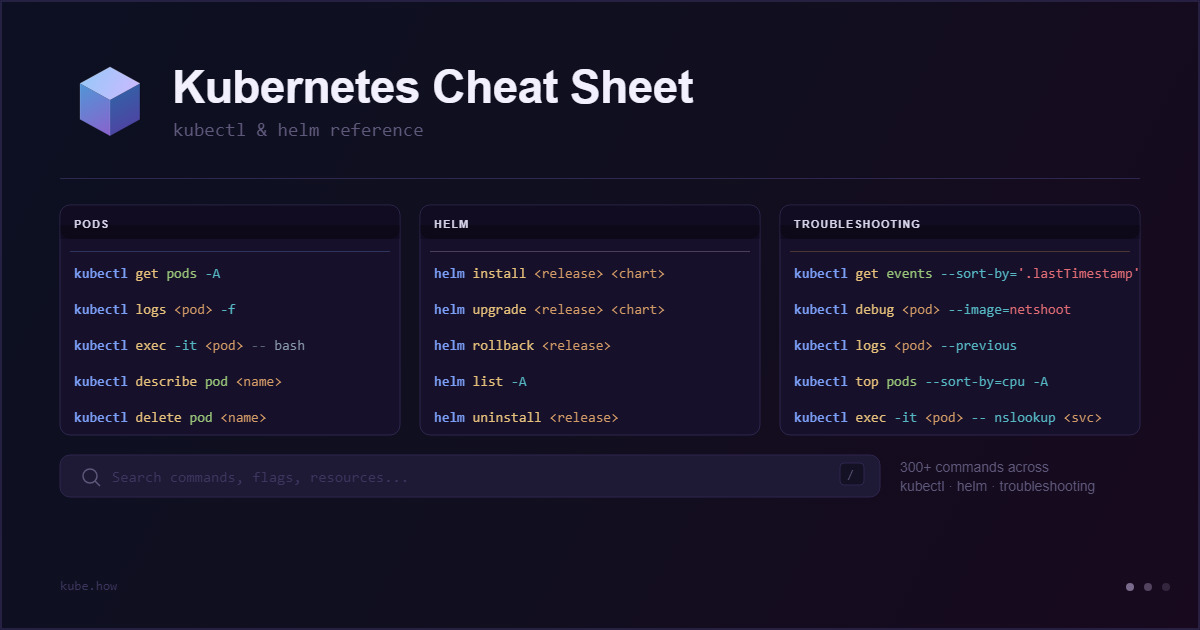
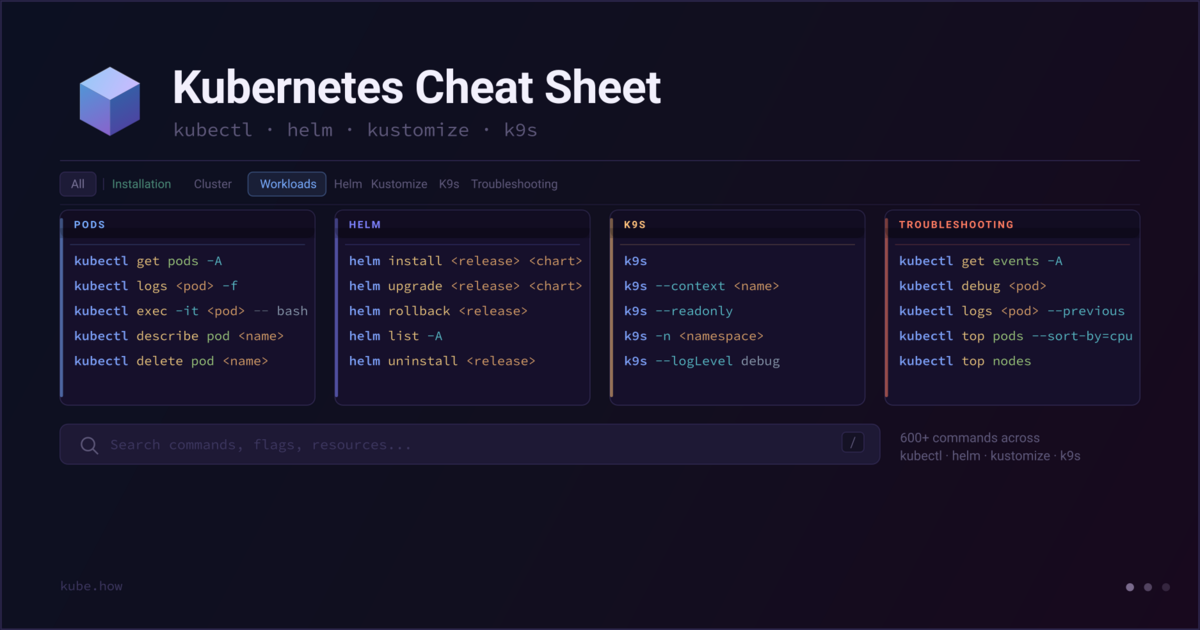
docs: refresh README and update OG image with 4-card layout

diff --git a/js/data.js b/js/data.js
@@ -96,8 +96,6 @@ const SECTIONS = [
         cmds: [
           { cmd: 'kubeadm token list',                                                      desc: 'List all bootstrap tokens' },
           { cmd: 'kubeadm config view',                                                     desc: 'View the kubeadm configuration stored in the cluster' },
-          { cmd: 'kubectl get nodes',                                                        desc: 'List all nodes and their status' },
-          { cmd: 'kubectl get pods -n kube-system',                                         desc: 'List control plane pods' },
         ]
       },
     ]
@@ -346,7 +344,6 @@ const SECTIONS = [
           { cmd: 'minikube profile list',                                                      desc: 'List all minikube profiles' },
           { cmd: 'minikube profile <name>',                                                   desc: 'Switch to a specific profile' },
           { cmd: 'minikube service list',                                                     desc: 'List services and their URLs' },
-          { cmd: 'minikube addons list',                                                      desc: 'List all addons and their status' },
           { cmd: 'minikube config view',                                                     desc: 'View all config values' },
           { cmd: 'minikube config set driver <driver>',                                      desc: 'Set the default driver' },
           { cmd: 'minikube config set memory <mb>',                                          desc: 'Set default memory in MB' },
@@ -471,6 +468,48 @@ const SECTIONS = [
     ]
   },
 
+  // ── CUSTOM RESOURCES ──────────────────────────────────────
+  {
+    id: 'crd', title: 'Custom Resources', icon: ICONS.crd, sub: 'Cluster',
+    groups: [
+      {
+        title: 'Manage',
+        desc: 'Install, update, and remove Custom Resource Definitions that extend the Kubernetes API with new resource types.',
+        cmds: [
+          { cmd: 'kubectl apply -f crd.yaml',                                        desc: 'Install or update a CRD' },
+          { cmd: 'kubectl delete crd <name>',                                        desc: 'Remove a CRD and all its custom resources' },
+          { cmd: 'kubectl edit crd <name>',                                          desc: 'Edit CRD in $EDITOR' },
+        ]
+      },
+      {
+        title: 'List & Inspect',
+        desc: 'List installed CRDs and inspect their versions, schema, and acceptance status.',
+        cmds: [
+          { cmd: 'kubectl describe crd <name>',                                      desc: 'Full CRD details, versions, schema, and conditions' },
+          { cmd: 'kubectl get crd',                                                  desc: 'List all Custom Resource Definitions' },
+          { cmd: 'kubectl get crd <name> -o jsonpath=\'{.spec.versions[*].name}\'', desc: 'List all API versions defined by a CRD' },
+          { cmd: 'kubectl get crd <name> -o yaml',                                  desc: 'Get full CRD manifest as YAML' },
+          { cmd: 'kubectl get <custom-resource> -A',                                desc: 'List all instances of a custom resource' },
+          { cmd: 'kubectl get <custom-resource> <name> -n <namespace> -o yaml',     desc: 'Get a custom resource instance as YAML' },
+        ]
+      },
+      {
+        title: 'API Discovery',
+        desc: 'Explore all available API resources and versions, and inspect resource field schemas directly from the API server.',
+        cmds: [
+          { cmd: 'kubectl api-resources',                                            desc: 'List all available API resources' },
+          { cmd: 'kubectl api-resources --api-group=<group>',                       desc: 'Resources in a specific API group' },
+          { cmd: 'kubectl api-resources --namespaced=false',                        desc: 'Cluster-scoped resources only' },
+          { cmd: 'kubectl api-resources --namespaced=true',                         desc: 'Namespace-scoped resources only' },
+          { cmd: 'kubectl api-versions',                                             desc: 'List all API versions in the cluster' },
+          { cmd: 'kubectl explain <resource>',                                       desc: 'Describe a resource and its top-level fields' },
+          { cmd: 'kubectl explain <resource> --recursive',                           desc: 'Show full nested field tree' },
+          { cmd: 'kubectl explain <resource>.spec.<field>',                          desc: 'Explain a specific nested field' },
+        ]
+      },
+    ]
+  },
+
   // ── CONTEXTS ──────────────────────────────────────────────
   {
     id: 'context', title: 'Contexts', icon: ICONS.context, sub: 'Cluster',
@@ -511,48 +550,6 @@ const SECTIONS = [
           { cmd: 'kubectl config view --flatten',                                  desc: 'Flatten kubeconfig (useful for sharing)' },
           { cmd: 'kubectl config view --minify',                                   desc: 'View current context config only' },
           { cmd: 'kubectl config view',                                            desc: 'View full kubeconfig' },
-        ]
-      },
-    ]
-  },
-
-  // ── CUSTOM RESOURCES ──────────────────────────────────────
-  {
-    id: 'crd', title: 'Custom Resources', icon: ICONS.crd, sub: 'Cluster',
-    groups: [
-      {
-        title: 'Manage',
-        desc: 'Install, update, and remove Custom Resource Definitions that extend the Kubernetes API with new resource types.',
-        cmds: [
-          { cmd: 'kubectl apply -f crd.yaml',                                        desc: 'Install or update a CRD' },
-          { cmd: 'kubectl delete crd <name>',                                        desc: 'Remove a CRD and all its custom resources' },
-          { cmd: 'kubectl edit crd <name>',                                          desc: 'Edit CRD in $EDITOR' },
-        ]
-      },
-      {
-        title: 'List & Inspect',
-        desc: 'List installed CRDs and inspect their versions, schema, and acceptance status.',
-        cmds: [
-          { cmd: 'kubectl describe crd <name>',                                      desc: 'Full CRD details, versions, schema, and conditions' },
-          { cmd: 'kubectl get crd',                                                  desc: 'List all Custom Resource Definitions' },
-          { cmd: 'kubectl get crd <name> -o jsonpath=\'{.spec.versions[*].name}\'', desc: 'List all API versions defined by a CRD' },
-          { cmd: 'kubectl get crd <name> -o yaml',                                  desc: 'Get full CRD manifest as YAML' },
-          { cmd: 'kubectl get <custom-resource> -A',                                desc: 'List all instances of a custom resource' },
-          { cmd: 'kubectl get <custom-resource> <name> -n <namespace> -o yaml',     desc: 'Get a custom resource instance as YAML' },
-        ]
-      },
-      {
-        title: 'API Discovery',
-        desc: 'Explore all available API resources and versions, and inspect resource field schemas directly from the API server.',
-        cmds: [
-          { cmd: 'kubectl api-resources',                                            desc: 'List all available API resources' },
-          { cmd: 'kubectl api-resources --api-group=<group>',                       desc: 'Resources in a specific API group' },
-          { cmd: 'kubectl api-resources --namespaced=false',                        desc: 'Cluster-scoped resources only' },
-          { cmd: 'kubectl api-resources --namespaced=true',                         desc: 'Namespace-scoped resources only' },
-          { cmd: 'kubectl api-versions',                                             desc: 'List all API versions in the cluster' },
-          { cmd: 'kubectl explain <resource>',                                       desc: 'Describe a resource and its top-level fields' },
-          { cmd: 'kubectl explain <resource> --recursive',                           desc: 'Show full nested field tree' },
-          { cmd: 'kubectl explain <resource>.spec.<field>',                          desc: 'Explain a specific nested field' },
         ]
       },
     ]
@@ -912,8 +909,8 @@ const SECTIONS = [
           { cmd: 'kubectl get jobs -n <namespace>',                                desc: 'Jobs in a specific namespace' },
           { cmd: 'kubectl get pods --selector=job-name=<name>',                   desc: 'Find all pods created by a job' },
           { cmd: 'kubectl logs -l job-name=<name>',                               desc: 'Logs from all pods of a job by label' },
-          { cmd: 'kubectl wait --for=condition=complete job/<name> --timeout=120s', desc: 'Wait until job completes successfully' },
-          { cmd: 'kubectl wait --for=condition=failed job/<name>',                desc: 'Wait until job fails (useful in CI to catch errors)' },
+          { cmd: 'kubectl wait --for=condition=Complete job/<name> --timeout=120s', desc: 'Wait until job completes successfully' },
+          { cmd: 'kubectl wait --for=condition=Failed job/<name>',                desc: 'Wait until job fails (useful in CI to catch errors)' },
         ]
       },
       {
@@ -1182,7 +1179,7 @@ const SECTIONS = [
         cmds: [
           { cmd: 'kubectl describe namespace <name>',                              desc: 'Namespace details and resource quotas' },
           { cmd: 'kubectl describe resourcequota -n <namespace>',                  desc: 'Current quota usage vs limits' },
-          { cmd: 'kubectl get all --all-namespaces',                               desc: 'All resources across all namespaces' },
+          { cmd: 'kubectl get all -A',                                              desc: 'All resources across all namespaces' },
           { cmd: 'kubectl get all -n <namespace>',                                 desc: 'All resources in a namespace' },
           { cmd: 'kubectl get limitrange -n <namespace>',                          desc: 'Default CPU/memory limits for namespace' },
           { cmd: 'kubectl get namespace <name> -o yaml',                           desc: 'Get namespace manifest as YAML' },
@@ -1296,7 +1293,6 @@ const SECTIONS = [
           { cmd: 'helm show chart <chart>',                                        desc: 'Display chart metadata (Chart.yaml)' },
           { cmd: 'helm show readme <chart>',                                       desc: 'Display chart README' },
           { cmd: 'helm show values <chart>',                                       desc: 'Display chart default values' },
-          { cmd: 'helm version',                                                   desc: 'Show Helm client version' },
         ]
       },
       {
@@ -1778,9 +1774,7 @@ const SECTIONS = [
         desc: 'Print K9s runtime paths and version, or enable debug logging to identify startup and connection issues.',
         cmds: [
           { cmd: 'k9s info',                                                         desc: 'Print config file path, log path, screen dump dir, and plugin dir' },
-          { cmd: 'k9s version',                                                       desc: 'Print K9s version and build info' },
           { cmd: 'k9s --logLevel debug',                                             desc: 'Start K9s with debug logging enabled' },
-          { cmd: 'k9s --readonly',                                                    desc: 'Start in read-only mode, all mutating actions are disabled' },
         ]
       },
       {

diff --git a/index.html b/index.html
@@ -20,6 +20,7 @@
   <meta name="twitter:card" content="summary_large_image">
   <meta name="twitter:title" content="Kubernetes Cheat Sheet | Quick CLI Reference">
   <meta name="twitter:description" content="Searchable Kubernetes CLI reference covering kubectl, Helm, Kustomize, K9s, and troubleshooting. Copy any command in one click.">
+  <meta name="twitter:image" content="https://kube.how/images/og-image.png">
 
   <link rel="icon" type="image/svg+xml" href="favicon.svg">
 
@@ -28,6 +29,18 @@
   <link rel="preload" href="https://fonts.googleapis.com/css2?family=JetBrains+Mono:wght@400;500;600;700&family=Space+Grotesk:wght@400;500;600;700&display=swap" as="style" onload="this.onload=null;this.rel='stylesheet'">
   <noscript><link rel="stylesheet" href="https://fonts.googleapis.com/css2?family=JetBrains+Mono:wght@400;500;600;700&family=Space+Grotesk:wght@400;500;600;700&display=swap"></noscript>
   <link rel="stylesheet" href="css/styles.css">
+
+  <script type="application/ld+json">
+  {
+    "@context": "https://schema.org",
+    "@type": "WebApplication",
+    "name": "Kubernetes Cheat Sheet",
+    "description": "Searchable Kubernetes CLI reference covering kubectl, Helm, Kustomize, K9s, and troubleshooting. Copy any command in one click.",
+    "url": "https://kube.how",
+    "applicationCategory": "DeveloperApplication",
+    "offers": { "@type": "Offer", "price": "0" }
+  }
+  </script>
 </head>
 <body>
 

diff --git a/js/app.js b/js/app.js
@@ -95,7 +95,7 @@ function applyMark(el, q) {
 
 // ── Navigation data ───────────────────────────────────────────
 const CATEGORIES = {
-  cluster:      ['cluster-health','node','context','crd'],
+  cluster:      ['cluster-health','node','crd','context'],
   workloads:    ['pod','deployment','statefulset','daemonset','service','config','job','volume','network','rbac','namespace'],
   helm:         ['helm-releases', 'helm-charts'],
   kustomize:    ['kustomize-manage', 'kustomize-edit'],
@@ -330,8 +330,14 @@ function applySearch(query) {
 
   const countEl = document.getElementById('searchCount');
   if (countEl) {
-    countEl.textContent = '';
-    countEl.classList.remove('active');
+    if (q) {
+      const n = [...document.querySelectorAll('.cmd-item')].filter(el => !el.hidden).length;
+      countEl.textContent = n.toString();
+      countEl.classList.toggle('active', true);
+    } else {
+      countEl.textContent = '';
+      countEl.classList.remove('active');
+    }
   }
 }
 

diff --git a/css/styles.css b/css/styles.css
@@ -198,7 +198,7 @@ body {
 
 .search-count {
   position: absolute;
-  right: 9px;
+  right: 36px;
   top: 50%;
   transform: translateY(-50%);
   font-family: 'JetBrains Mono', monospace;

diff --git a/README.md b/README.md
@@ -1,49 +1,93 @@
 # Kubernetes Cheat Sheet
 
-**Kubernetes Cheat Sheet** is a searchable web reference for kubectl, Helm, Kustomize, and K9s. The site covers the most commonly used commands across all typical day-to-day Kubernetes workflows: managing workloads, inspecting cluster state, working with Helm releases, building and editing Kustomize overlays, navigating K9s, and diagnosing common issues. Each command has a short description and a copy button. No login, no ads, no install required — just open and use.
+A fast, searchable web reference for everyone who works with Kubernetes day to day. No login, no ads, no tracking, no install – open the page and use it.
 
-Available at [kube.how](https://kube.how/).
+**Live at [kube.how](https://kube.how/)**
 
 ![preview](images/og-image.png)
 
-## Content
+---
 
-The reference is split into six categories:
+## What it covers
 
-- **Cluster:** Cluster Health, Nodes, Contexts
-- **Workloads:** Pods, Deployments, StatefulSets, DaemonSets, Services, ConfigMaps & Secrets, Jobs & CronJobs, Volumes, Networking (incl. Gateway API, GatewayClass, HTTPRoutes, Ingress, IngressClass, Network Policies), RBAC, Namespaces
-- **Helm:** Releases, Charts
-- **Kustomize:** Manage, Edit
-- **K9s:** CLI & Launch, UI Shortcuts
-- **Troubleshooting:** Kubectl, K9s, Kustomize, Helm
+Over 600 commands across seven categories, each with a short plain-English description and a one-click copy button.
 
-600+ commands in total.
+| Category | Sections |
+|---|---|
+| **Installation** | Kubeadm, K3s, K3d, KinD, Minikube |
+| **Cluster** | Cluster Health, Nodes, Custom Resources, Contexts |
+| **Workloads** | Pods, Deployments, StatefulSets, DaemonSets, Services, ConfigMaps & Secrets, Jobs & CronJobs, Volumes, Networking, RBAC, Namespaces |
+| **Helm** | Releases, Charts |
+| **Kustomize** | Manage, Edit |
+| **K9s** | CLI & Launch, UI Shortcuts |
+| **Troubleshooting** | Installation, Kubectl, Helm, Kustomize, K9s |
+
+---
+
+## How to use it
+
+- **Click any command** to copy it to the clipboard instantly.
+- **Top navigation** switches between categories. Sub-navigation narrows it down to a specific section.
+- **Search** filters across all commands and descriptions at once. Hit `/` to focus the search field from anywhere on the page, `Esc` to clear it.
+- **Keyboard shortcuts** `1`–`8` jump between top-level categories without touching the mouse.
+- **Deep links** work – the URL updates as you navigate, so you can bookmark or share a specific section directly (e.g. `kube.how/#helm`).
+
+---
 
 ## Stack
 
-- **HTML / CSS / JavaScript:** no framework, no bundler, no npm
-- **Google Fonts:** Space Grotesk (UI) and JetBrains Mono (commands)
-- **nginx:** web server inside the Docker image
-- **GitHub Pages:** hosting with a custom domain
+The project is intentionally dependency-free. There is no framework, no bundler, and no npm involved.
+
+- **HTML / CSS / JavaScript** – three files, plain ES6 modules, no build step
+- **Google Fonts** – Space Grotesk for the UI, JetBrains Mono for commands
+- **nginx** – web server inside the Docker image, with gzip and static asset caching configured
+- **GitHub Actions** – automatic deployment to GitHub Pages on every push to `main`
+- **GitHub Pages + Cloudflare** – hosting with the custom domain `kube.how`, full SSL, and edge caching
+
+All content lives in `js/data.js` as a structured array. Adding or editing commands means touching that one file only – no templates, no CMS.
+
+---
 
 ## Running locally
 
-The project has no build step, so any static file server works:
+No build step needed. Any static file server works:
 
 ```bash
+# Python (built-in)
 python3 -m http.server 8888 --bind 0.0.0.0
 ```
 
+Then open [http://localhost:8888](http://localhost:8888).
+
+---
+
 ## Docker
+
+Build and run with nginx:
 
 ```bash
 docker build -t kube-cheatsheet .
 docker run -d --name kube-cheatsheet -p 8080:80 kube-cheatsheet
 ```
 
-To rebuild after changes:
+Open [http://localhost:8080](http://localhost:8080).
+
+To rebuild after making changes:
 
 ```bash
-docker stop kube-cheatsheet && docker rm kube-cheatsheet
-docker build -t kube-cheatsheet . && docker run -d --name kube-cheatsheet -p 8080:80 kube-cheatsheet
+docker rm kube-cheatsheet
+docker build -t kube-cheatsheet .
+docker run -d --name kube-cheatsheet -p 8080:80 kube-cheatsheet
 ```
+
+---
+
+## Contributing
+
+Content edits go in `js/data.js` – each section is a plain JS object with a `groups` array, each group has a `title`, `desc`, and `cmds` list. Commands are sorted automatically on render, so order inside the array doesn't matter. If you spot a wrong flag, a missing command, or a broken description – pull requests are welcome.
+
+---
+
+## License
+
+MIT © [Ivan Medaev](https://t.me/opengrad)
